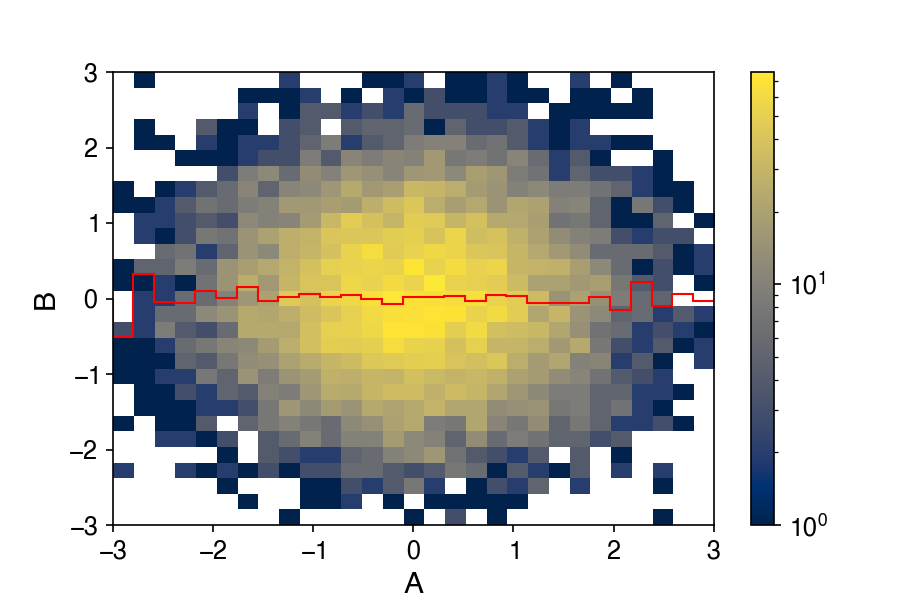
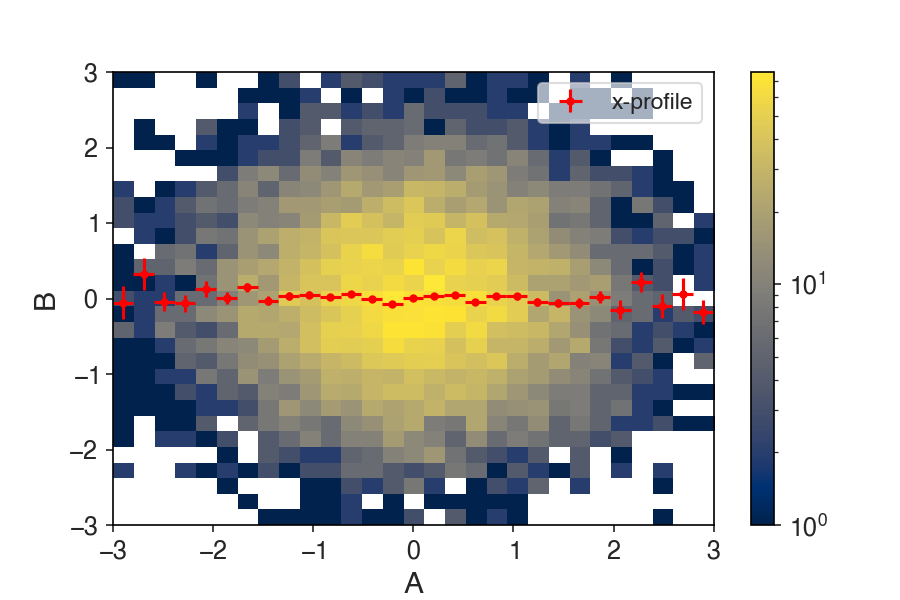
band legend handler for fits

diff --git a/yahist/fit.py b/yahist/fit.py
@@ -1,7 +1,44 @@
 import re
 import numpy as np
+import matplotlib
+
+import matplotlib.patches
+import matplotlib.lines
+import matplotlib.legend
 
 from .utils import is_listlike
+
+
+class BandObject(matplotlib.patches.Rectangle):
+    pass
+
+
+class BandObjectHandler(object):
+    def legend_artist(self, legend, orig_handle, fontsize, handlebox):
+        color = orig_handle.get_facecolor()
+        x0, y0 = handlebox.xdescent, handlebox.ydescent
+        width, height = handlebox.width, handlebox.height
+        patch = matplotlib.patches.Rectangle(
+            [x0, y0],
+            width,
+            height,
+            facecolor=color,
+            edgecolor="none",
+            lw=0.0,
+            alpha=0.25,
+            transform=handlebox.get_transform(),
+        )
+        handlebox.add_artist(patch)
+        patch = matplotlib.lines.Line2D(
+            [x0 + width * 0.03, x0 + width - width * 0.03],
+            [y0 + height * 0.5],
+            color=color,
+            linewidth=1,
+            linestyle="-",
+            transform=handlebox.get_transform(),
+        )
+        handlebox.add_artist(patch)
+        return patch
 
 
 def expr_to_lambda(expr):
@@ -173,6 +210,8 @@ def fit_hist(
         - parameter names, values, errors (sqrt of diagonal of the cov. matrix)
         - chi2, ndof of fit
         - a Hist1D object containing the fit
+        - a callable function "func" corresponding to the input function
+          but with fitted parameters
 
     Example
     -------
@@ -287,6 +326,7 @@ def fit_hist(
         chi2=chi2,
         ndof=ndof,
         hfit=hfit,
+        func=lambda x: func(x, *parvalues),
     )
 
     if draw:
@@ -295,7 +335,7 @@ def fit_hist(
             for name, x in params.items():
                 label += "\n    "
                 label += rf"{name} = {x['value']:.3g} $\pm$ {x['error']:.3g}"
-        ax.plot(xdata_fine, fit_ydata_fine, color=color, zorder=3, label=label)
+        ax.plot(xdata_fine, fit_ydata_fine, color=color, zorder=3)
         if band_style == "filled":
             ax.fill_between(
                 xdata_fine,
@@ -305,15 +345,18 @@ def fit_hist(
                 alpha=0.25,
                 zorder=3,
             )
+            matplotlib.legend.Legend.update_default_handler_map(
+                {BandObject: BandObjectHandler()}
+            )
+            ax.add_patch(
+                BandObject((0, 0), 0, 0, label=label, color=color, visible=False)
+            )
+
         elif band_style in ["dashed", "dashdot", "dotted", "solid"]:
             for mult in [-1, 1]:
                 ys = fit_ydata_fine + mult * sampled_stds_fine
                 ax.plot(xdata_fine, ys, color=color, zorder=3, linestyle=band_style)
         if legend:
-            # Because of this issue, we cannot iteratively append
-            # a combined patch (2-tuple of the ax.plot and ax.fill_between patches)
-            # to the legend, as ax.get_legend_handles_labels() will drop a previous patch
-            # https://stackoverflow.com/questions/56333115/matplotlib-iterate-to-combine-legend-handles-and-labels
             ax.legend()
 
     return res

diff --git a/yahist/hist2d.py b/yahist/hist2d.py
@@ -794,8 +794,8 @@ class Hist2D(Hist1D):
         **kwargs,
     ):
         """
-        Plot this histogram object using matplotlib's `hist`
-        function, or `errorbar`.
+        Plot this histogram object using matplotlib's `pcolorfast`/`pcolormesh`
+        functions.
 
         Parameters
         ----------

diff --git a/yahist/__init__.py b/yahist/__init__.py
@@ -2,4 +2,4 @@ from .hist1d import Hist1D
 from .hist2d import Hist2D
 from .utils import set_default_style, register_with_dask
 
-__version__ = "1.12.0"
+__version__ = "1.12.1"

diff --git a/README.md b/README.md
@@ -23,7 +23,7 @@ from yahist import Hist1D
 
 v = np.random.normal(0, 1, 1000)
 h = Hist1D(v, bins=100, label="data").rebin(2).normalize()
-h.plot(errors=True, color="k")
+h.plot(errors=True, color="k", ms=3)
 h.fit("peak * np.exp(-(x-mu)**2 / (2*sigma**2))")
 ```
 <img src="examples/plot1.png" height="300" width="450"/>
@@ -35,7 +35,7 @@ df = pd.DataFrame(np.random.normal(0, 1, size=(10000, 2)), columns=["A", "B"])
 
 h = Hist2D(df, bins="30,-3,3", threads=4)
 h.plot(logz=True, cmap="cividis")
-h.profile("x").plot(color="r")
+h.profile("x").plot(errors=True, color="r", marker=".", label="x-profile")
 ```
 <img src="examples/plot2.png" height="300" width="450"/>
 
